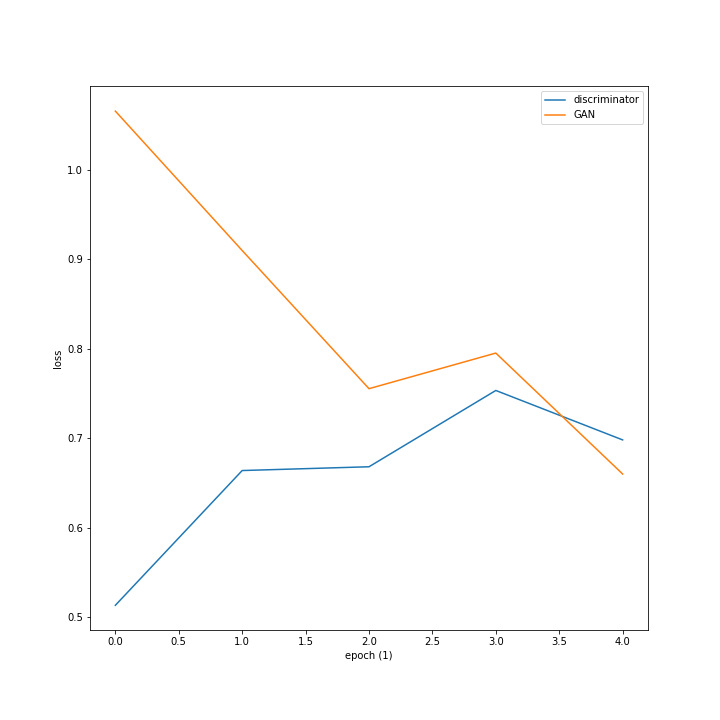
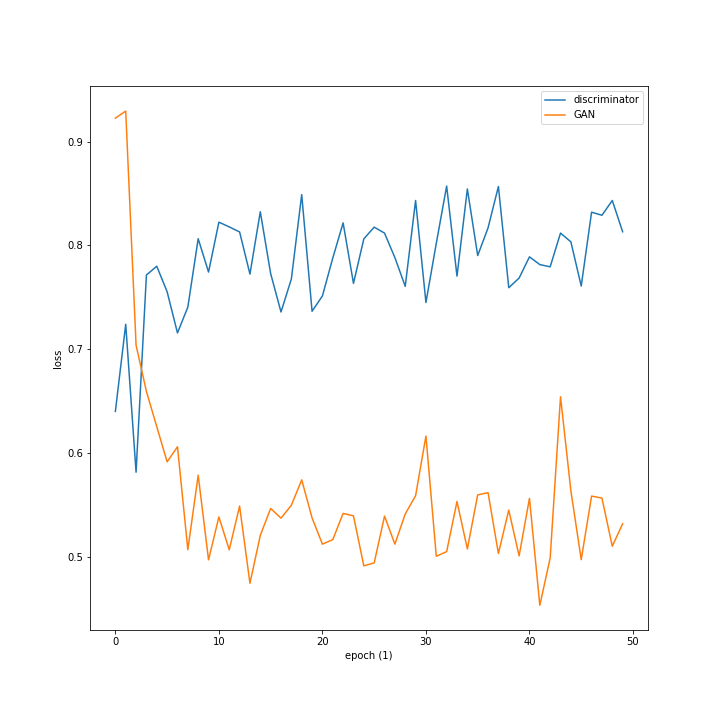
Fix epoch issue in LSGAN

diff --git a/LSGAN/main_100kCeleb.py b/LSGAN/main_100kCeleb.py
@@ -231,40 +231,44 @@ def train_gan(X, model, batch_size, epoch, save_interval, pretrain=False, pretra
     gan_performance = []
     d_accuracy = []
     gan_accuracy = []
+    
+    batch_per_epoch = int(round(X.shape[0]/batch_size))
+    
     for i in range(epoch):
-        #=====================Train discriminator==============================
-        # Randomly select n (batch_size) number of images from X
-        images_real = X[np.random.randint(0,X.shape[0], size=batch_size), :, :, :]
-        # Generate n number of 100D noise vectors
-        noise = np.random.normal(0.0, 1.0, size=[batch_size, noise_len])
-        # Produce n number of fake images with generator
-        images_fake = G.predict(noise)
-        # Concat real and fake images
-        x = np.concatenate((images_real, images_fake))
-        # Create labels
-        y = np.ones([2*batch_size, 1]) 
-        y[batch_size:, :] = 0
-        # Shuffle the real and fake images
-        x,y = shuffle(x,y)
-        # Make discriminator trainable
-        D.trainable = True
-        # Train discriminator on the sampled data
-        d_loss = D.train_on_batch(x, y)
-        
-        #=========================Train GAN====================================
-        # Create labels
-        y = np.ones([batch_size, 1])
-        # Generate n number of 100D noise vectors
-        noise = np.random.normal(0.0, 1.0, size=[batch_size, noise_len])
-        # Freeze weights in discriminator
-        D.trainable = False
-        # Train GAN on the generated data
-        gan_loss = GAN.train_on_batch(noise, y)
-        # Print loss and accuracy values 
-        log_msg = "epoch %d: [D loss: %f, acc: %f]" % (i, d_loss[0], d_loss[1])
-        log_msg = "%s  [GAN loss: %f, acc: %f]" % (log_msg, gan_loss[0], gan_loss[1])
-        print(log_msg)
-        
+        for j in tqdm(range(batch_per_epoch)):
+            #=====================Train discriminator==========================
+            # Randomly select n (batch_size) number of images from X
+            images_real = X[np.random.randint(0,X.shape[0], size=batch_size), :, :, :]
+            # Generate n number of 100D noise vectors
+            noise = np.random.normal(0.0, 1.0, size=[batch_size, noise_len])
+            # Produce n number of fake images with generator
+            images_fake = G.predict(noise)
+            # Concat real and fake images
+            x = np.concatenate((images_real, images_fake))
+            # Create labels
+            y = np.ones([2*batch_size, 1]) 
+            y[batch_size:, :] = 0
+            # Shuffle the real and fake images
+            x,y = shuffle(x,y)
+            # Make discriminator trainable
+            D.trainable = True
+            # Train discriminator on the sampled data
+            d_loss = D.train_on_batch(x, y)
+            
+            #=========================Train GAN================================
+            # Create labels
+            y = np.ones([batch_size, 1])
+            # Generate n number of 100D noise vectors
+            noise = np.random.normal(0.0, 1.0, size=[batch_size, noise_len])
+            # Freeze weights in discriminator
+            D.trainable = False
+            # Train GAN on the generated data
+            gan_loss = GAN.train_on_batch(noise, y)
+            # Print loss and accuracy values 
+            log_msg = "epoch %d: [D loss: %f, acc: %f]" % (i, d_loss[0], d_loss[1])
+            log_msg = "%s  [GAN loss: %f, acc: %f]" % (log_msg, gan_loss[0], gan_loss[1])
+            print(log_msg)
+            
         d_performance.append(np.array(d_loss[0], dtype=float))
         gan_performance.append(np.array(gan_loss[0], dtype=float))
         

diff --git a/CGAN/main.py b/CGAN/main.py
@@ -73,7 +73,6 @@ D.add(Dropout(dropout))
 D.add(Flatten())
 # Output layer
 D.add(Dense(1, kernel_initializer='glorot_normal'))
-# KEY CHANGE: linear activation (rather than sigmoid like in DCGAN)
 D.add(Activation('sigmoid'))
 
 disc_out = D(concatenate1)
@@ -93,30 +92,20 @@ depth = 64*2
 dim = 7
 noise_vec = 266
 gen_model = Sequential()
-# Input layer
-# In: 100
-# Out: dim x dim x depth
+
 gen_model.add(Dense(dim*dim*depth, input_dim=noise_vec, kernel_initializer='glorot_normal'))
 gen_model.add(BatchNormalization(momentum=0.9))
 gen_model.add(LeakyReLU(alpha=0.3))
 gen_model.add(Reshape((dim, dim, depth)))
 gen_model.add(Dropout(dropout))
-# Second layer
-# In: dim x dim x depth
-# Out: 2*dim x 2*dim x depth/2
+
 gen_model.add(UpSampling2D())
 gen_model.add(Conv2DTranspose(int(depth/2), 5, padding='same', kernel_initializer='glorot_normal'))
 gen_model.add(BatchNormalization(momentum=0.8))
 gen_model.add(LeakyReLU(alpha=0.3))
-# Third layer
-# In: 2*dim x 2*dim x depth/2
-# Out: 4*dim x 4*dim x depth/4
+
 gen_model.add(UpSampling2D())
-# Output layer
-# In: 4*dim x 4*dim x depth/4
-# Out: 28 x 28 x 1 RGB scale image [0.0,1.0] per pixel
 gen_model.add(Conv2DTranspose(1, 5, padding='same', kernel_initializer='glorot_normal'))
-# KEY CHANGE: tanh activation (rather than sigmoid like in DCGAN)
 gen_model.add(Activation('sigmoid'))
 
 # Print out architecture of the generator
@@ -145,6 +134,7 @@ comb_model.compile(loss=['binary_crossentropy'], optimizer=optimizer2, metrics=[
 comb_model.summary()
 # Save model architecture as .PNG 
 plot_model(comb_model, to_file='CGAN.png', show_shapes=True, show_layer_names=True)
+plot_model(comb_model, to_file='CGAN_expand.png', expand_nested=True, show_shapes=True, show_layer_names=True)
 
 #==========================Plot image function=================================
 def plot_output(input_266, step):
